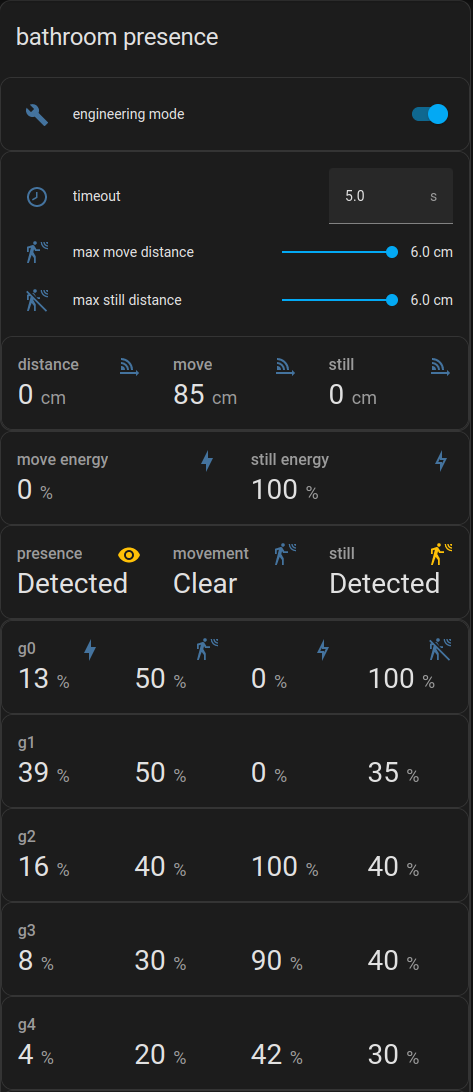
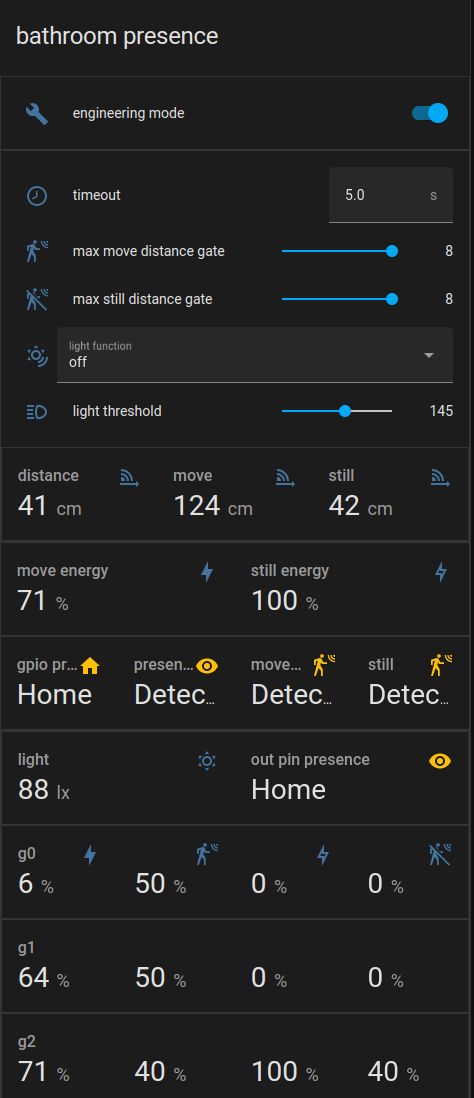
update card

diff --git a/components/sensor/ld2410.rst b/components/sensor/ld2410.rst
@@ -527,6 +527,10 @@ First add the templates using the ``raw configuration editor``:
                       name: max move distance gate
                     - entity: '[[presence_max_still_distance_gate_number]]'
                       name: max still distance gate
+                    - entity: '[[light_function_select]]'
+                      name: light function
+                    - entity: '[[light_threshold_number]]'
+                      name: light threshold
                 - type: custom:vertical-stack-in-card
                   horizontal: true
                   cards:
@@ -552,6 +556,10 @@ First add the templates using the ``raw configuration editor``:
               horizontal: true
               cards:
                 - type: entity
+                  entity: '[[gpio_out_pin_presence_binary_sensor]]'
+                  name: gpio presence
+                  state_color: true
+                - type: entity
                   entity: '[[presence_binary_sensor]]'
                   name: presence
                   state_color: true
@@ -570,6 +578,16 @@ First add the templates using the ``raw configuration editor``:
               card:
                 type: custom:vertical-stack-in-card
                 cards:
+                  - type: custom:vertical-stack-in-card
+                    horizontal: true
+                    cards:
+                      - type: entity
+                        entity: '[[light_sensor]]'
+                        name: light
+                      - type: entity
+                        entity: '[[out_pin_presence_binary_sensor]]'
+                        name: out pin presence
+                        state_color: true
                   - type: custom:decluttering-card
                     template: ld2410_gate_row_header
                     variables:
@@ -663,6 +681,11 @@ Then create a custom card and fill all of the entities:
       - presence_binary_sensor: binary_sensor.bathroom_presence_presence
       - movement_binary_sensor: binary_sensor.bathroom_presence_movement
       - still_binary_sensor: binary_sensor.bathroom_presence_still
+      - light_function_select: select.bathroom_presence_light_function
+      - light_threshold_number: number.bathroom_presence_light_threshold
+      - gpio_out_pin_presence_binary_sensor: binary_sensor.bathroom_presence_gpio_out_pin_presence
+      - out_pin_presence_binary_sensor: binary_sensor.bathroom_presence_out_pin_presence
+      - light_sensor: sensor.bathroom_presence_light
       - g0_move_energy_sensor: sensor.bathroom_presence_g0_move_energy
       - g0_move_threshold_number: number.bathroom_presence_g0_move_threshold
       - g0_still_energy_sensor: sensor.bathroom_presence_g0_still_energy
